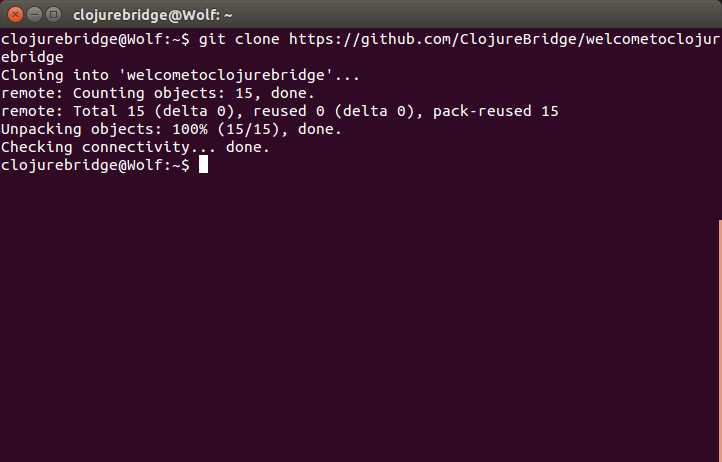
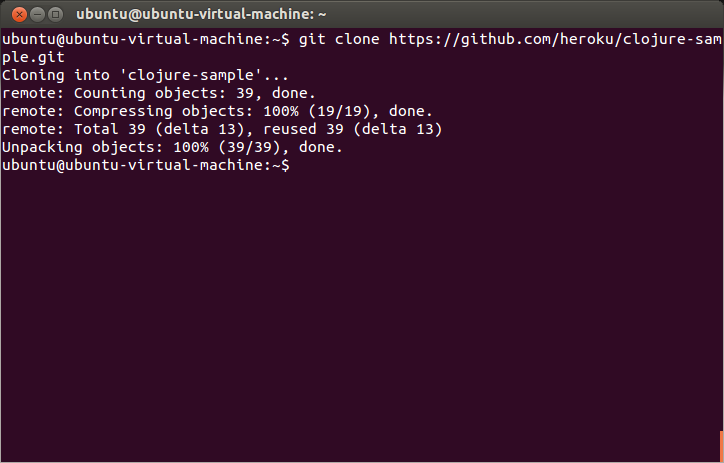
Revert "Updates ubuntu setup to use welcometoclojurebridge repo"
This reverts commit 2967b80aa3d517d41810ee6104a8bb4bbefa2ef3.

Changed region(s): [[0.0, 0.0, 1.0, 0.3939], [0.9751, 0.4848, 1.0, 1.0], [0.0, 0.9697, 0.0305, 1.0]]

diff --git a/outline/setup_ubuntu.md b/outline/setup_ubuntu.md
@@ -120,7 +120,7 @@ You have set up Java, Leiningen, Light Table, and Git on your computer--all the 
 Go to your terminal and run the following command:
 
 ```
-git clone https://github.com/ClojureBridge/welcometoclojurebridge
+git clone https://github.com/heroku/clojure-sample.git
 ```
 
 This will check out a sample Clojure application from GitHub, a central repository for lots of source code. Your terminal should look similar to this picture:
@@ -130,7 +130,7 @@ This will check out a sample Clojure application from GitHub, a central reposito
 Then run the command:
 
 ```
-cd welcometoclojurebridge
+cd clojure-sample
 ```
 
 This will put you in the directory with the source code for this sample bit of Clojure code. After that completes, run:
@@ -153,14 +153,26 @@ At the bottom of the screen, you will see a cube moving and some text about conn
 
 ![Testing Light Table - running in the instarepl](img/ubuntu/testing-step4.png)
 
-If that worked, great!
+If that worked, great! Close Light Table.
 
-Now we will open and run the sample Clojure app in LightTable. In LightTable, click on the menu "File" then choose "Open Folder." Find the directory you created earlier, `welcometoclojurebridge` and click "Upload." In the workspace menu on the left, click on welcometoclojurebridge - src - welcometoclojurebridge - core.clj. Double-click the core.clj file to open it. This is a Clojure program. Click on the file contents and press the following key combination:
+Finally, let's make sure the application you downloaded will run properly.  To test this, you will use Leiningen to run the application on your computer.  As this is a (very simple) web application, you should be able to use a web browser to see it runnning in all its humble glory.  Let's start with
 
-![Testing Light Table - opening core.clj](img/ubuntu/testing-step5.png)
+```
+lein run
+```
 
-<kbd>Control</kbd> + <kbd>Shift</kbd> + <kbd>Enter</kbd>
+This tells Leiningen to run your application.  Different applications run in different ways - this one starts up it's own little webserver on your computer.  If this is the first time you've run a web application, the output in the Terminal window (see below) may not make much sense, so let's test the application in a browser.
 
-You should see a fun welcome message.
+![Testing lein run](img/ubuntu/testing-lein-run.png)
 
-Congratulations! You have opened and run your first Clojure app, and your install and setup are complete!
+You now need to open a web browser (Chrome, Firefox, Safari, etc) and point it towards the application running on your computer.  Enter the following URL to access your application:
+
+```
+http://localhost:8080/
+```
+
+This is what your browser should look like if everything has been successful.
+
+![Testing in browser](img/ubuntu/testing-browser.png)
+
+Congratulations! You have actually made a very simple Clojure app, and your computer is all set up to make more.
